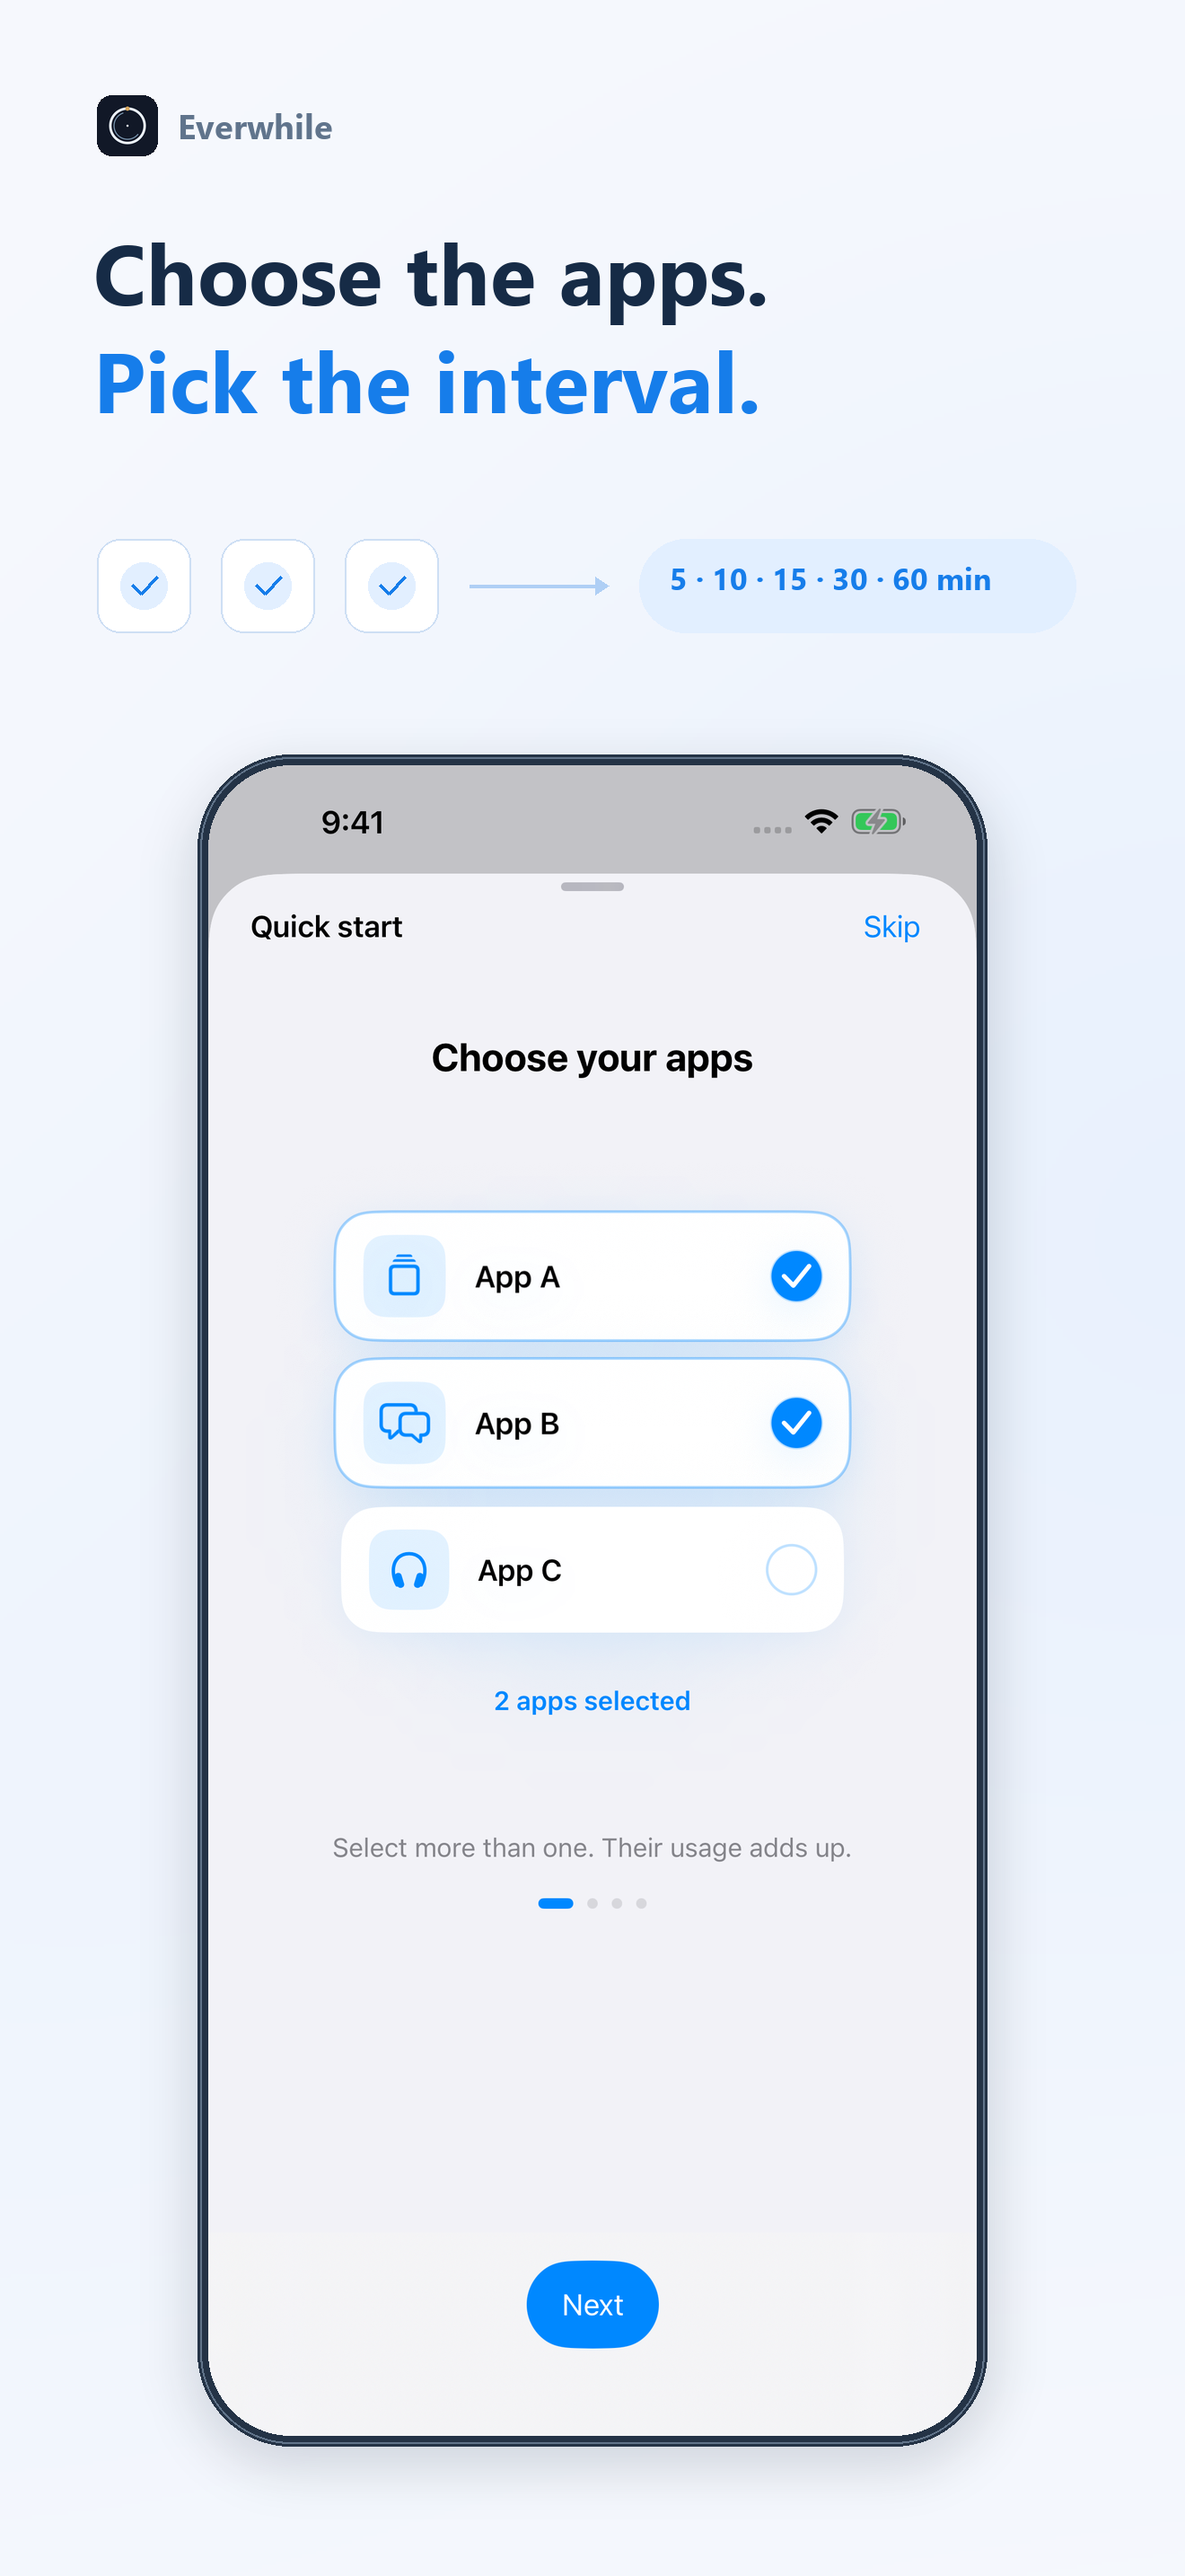
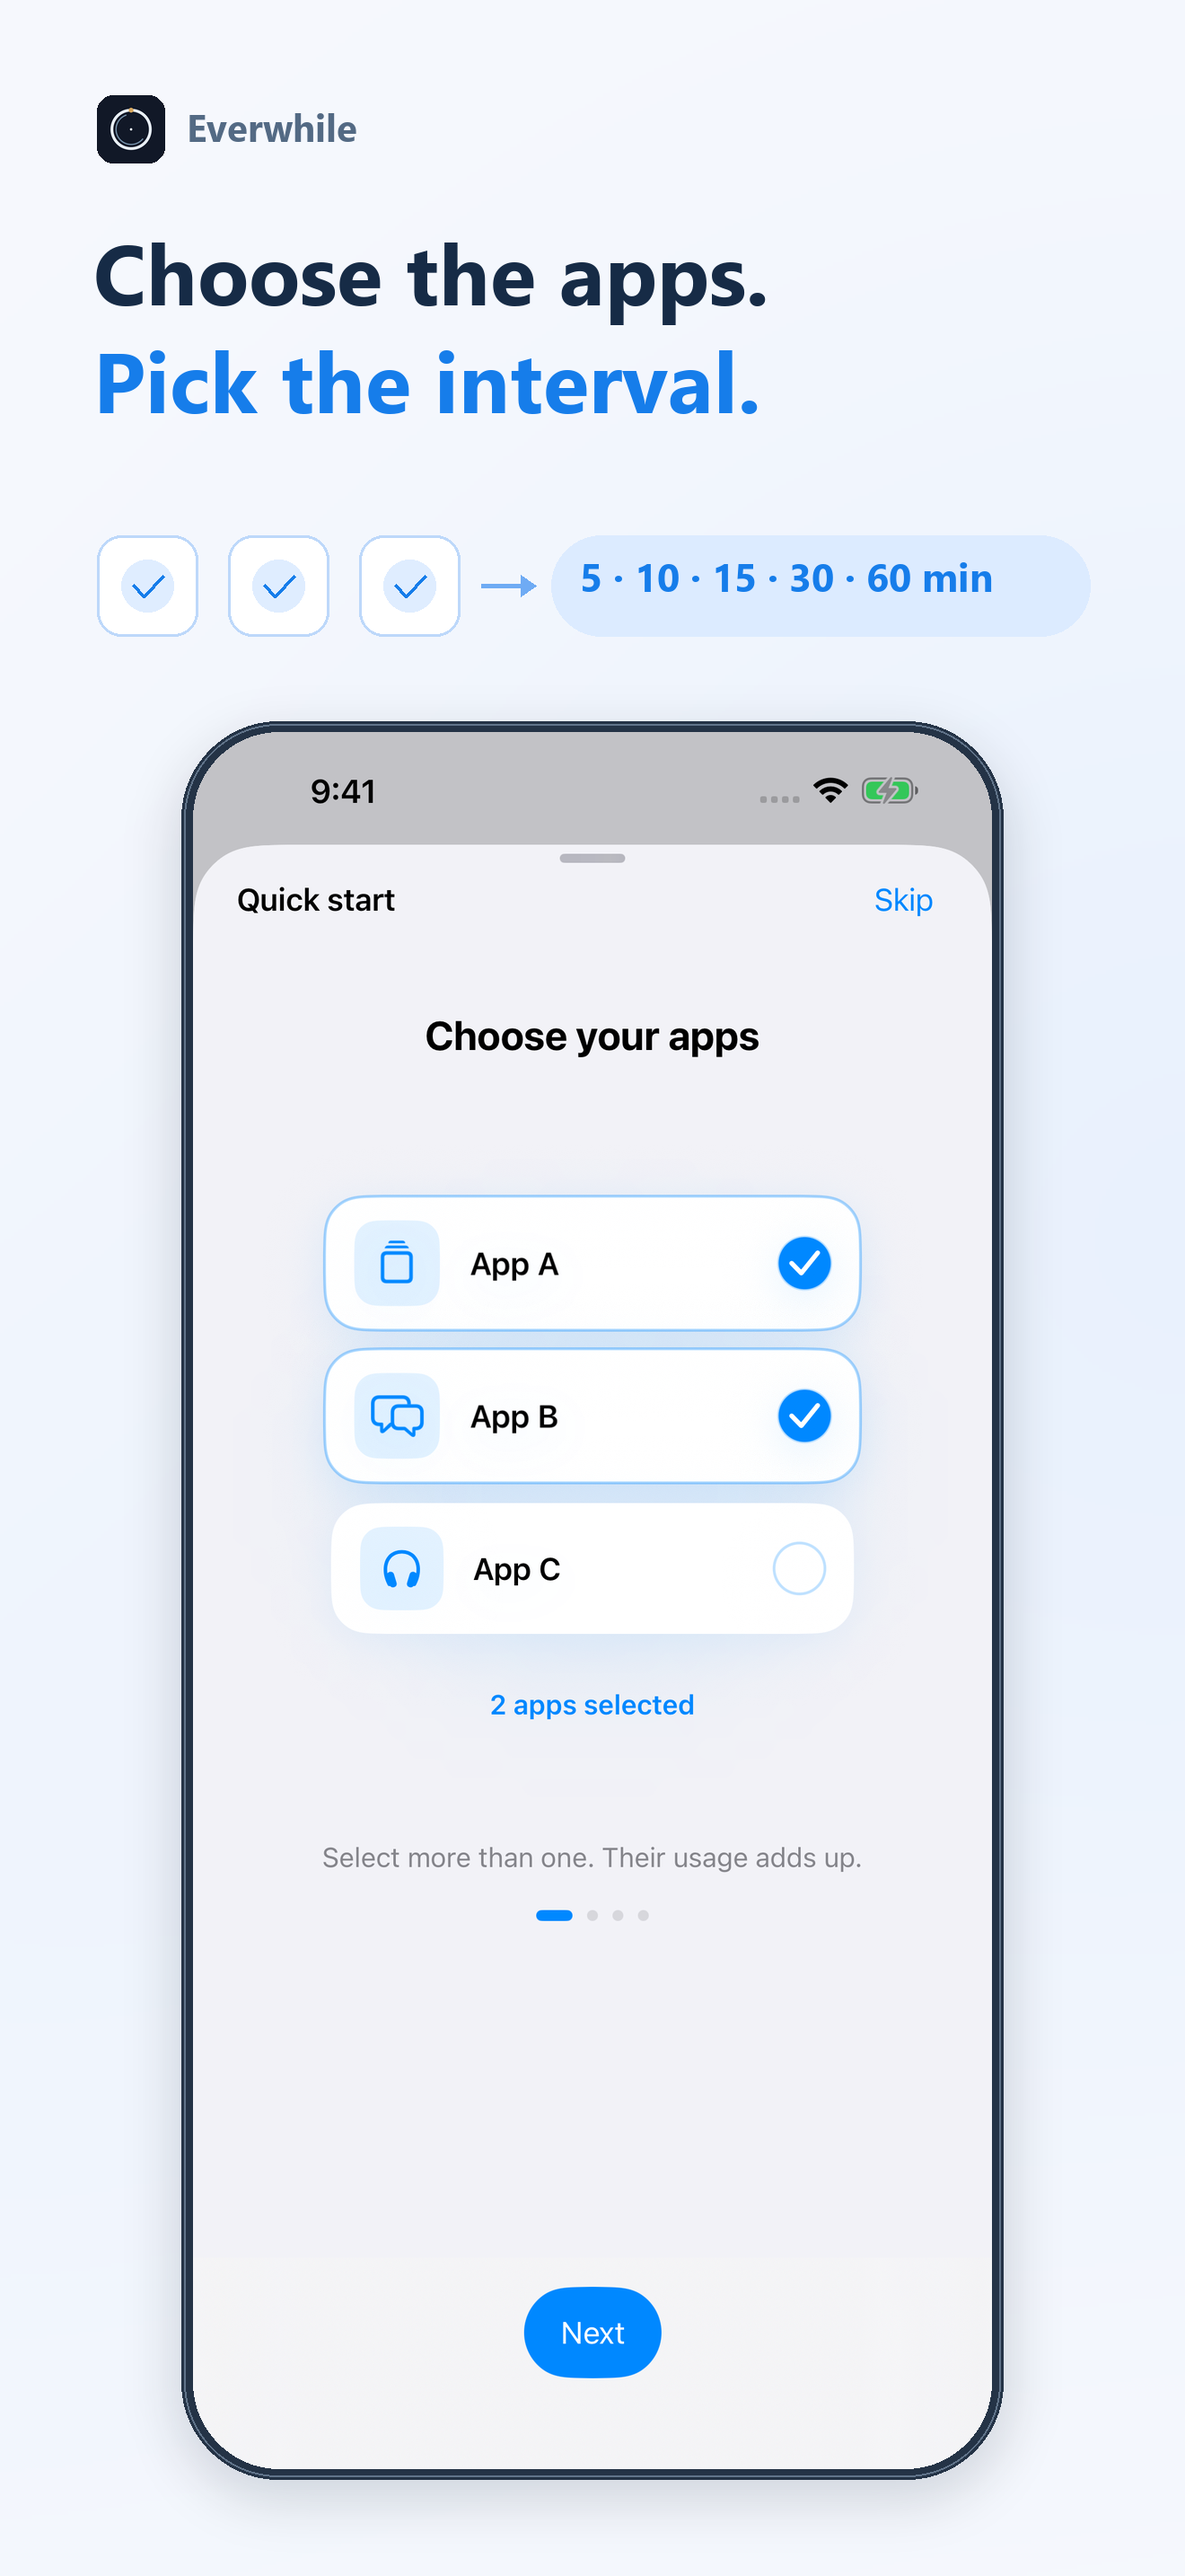
Polish English store screenshots without changing real app captures

diff --git a/store-assets/scripts/render_store.py b/store-assets/scripts/render_store.py
@@ -15,9 +15,13 @@ ROOT = Path(__file__).resolve().parents[1]
 REPO = ROOT.parent
 SIZE = (1320, 2868)
 BLUE, INK, MUTED = "#167DEA", "#162B46", "#60748C"
-PHONE_RECT = (220, 840, 880, 1884)
-SCREEN_RECT = (232, 852, 856, 1860)
-RADIUS = 92
+PHONE_RECT = (202, 803, 916, 1958)
+SCREEN_RECT = (215, 815, 890, 1934)
+RADIUS = 96
+PHONE_RADIUS = 108
+BRAND = {"icon_rect": [108, 106, 76, 76], "origin": [208, 112],
+         "size": 42, "color": "#536A84"}
+INTERVAL_MOTIF_SIZE = 44
 HEADLINE = {"origin": [104, 238], "size": 94, "line_height": 120}
 SUBTITLE = {"origin": [108, 496], "size": 38}
 STORY = [
@@ -69,28 +73,39 @@ def motif(image, index, directory, records):
             d.ellipse((x-radius, 661-radius, x+radius, 661+radius), fill="#B0D3FC")
         d.line((574, 661, 1180, 661), fill="#D8E8FA", width=3)
     elif index == 1:
-        for x in [108, 246, 384]:
-            d.rounded_rectangle((x, 600, x+104, 704), radius=25, fill="white", outline="#CEDFF4", width=2)
-            d.ellipse((x+26, 626, x+78, 678), fill="#E2EFFF")
-            d.line([(x+39, 651), (x+49, 661), (x+67, 642)], fill=BLUE, width=4, joint="curve")
-        d.line([(523, 652), (673, 652)], fill="#AFCFF5", width=4)
-        d.polygon([(663, 642), (678, 652), (663, 662)], fill="#AFCFF5")
-        d.rounded_rectangle((712, 600, 1198, 704), radius=52, fill="#E2EFFF")
-        text(image, (746, 620), "5 · 10 · 15 · 30 · 60 min", directory, records, 34, BLUE, True)
+        for x in [108, 254, 400]:
+            d.rounded_rectangle((x, 596, x+112, 708), radius=27, fill="white", outline="#BDD8FA", width=3)
+            d.ellipse((x+27, 623, x+85, 681), fill="#DFEDFF")
+            d.line([(x+40, 651), (x+52, 664), (x+74, 641)], fill=BLUE, width=5, joint="curve")
+        d.line([(536, 652), (592, 652)], fill="#6FABF4", width=5)
+        d.polygon([(580, 640), (597, 652), (580, 664)], fill="#6FABF4")
+        d.rounded_rectangle((614, 596, 1214, 708), radius=56, fill="#DCEBFF")
+        text(image, (646, 611), "5 · 10 · 15 · 30 · 60 min", directory, records,
+             INTERVAL_MOTIF_SIZE, BLUE, True)
     elif index == 2:
-        # A neutral pulse mark outside the phone, not an iOS banner mockup.
-        for radius in [26, 49, 73]:
-            d.ellipse((177-radius, 662-radius, 177+radius, 662+radius), outline="#AFCFF5", width=3)
-        d.ellipse((165, 650, 189, 674), fill=BLUE)
-        d.line((306, 662, 1188, 662), fill="#C8DFF9", width=3)
-        for x in [470, 770, 1070]:
-            d.ellipse((x-9, 653, x+9, 671), fill=BLUE)
+        # Generic app group -> accumulating segments -> a quiet bell/pulse.
+        # Marketing illustration only: no duration claim or OS banner mockup.
+        d.rounded_rectangle((108, 609, 194, 695), radius=22, fill="#E2EFFF", outline="#BDD8FA", width=3)
+        d.rounded_rectangle((166, 625, 252, 711), radius=22, fill="white", outline="#9AC4F8", width=3)
+        d.rounded_rectangle((187, 646, 231, 690), radius=12, fill="#DCEBFF")
+        d.line((282, 661, 935, 661), fill="#D4E5FA", width=3)
+        for x, color in [(346, "#BAD7FB"), (490, "#8FBEF7"), (634, "#6FABF4")]:
+            d.rounded_rectangle((x, 648, x+120, 674), radius=13, fill=color)
+        d.line((794, 661, 935, 661), fill="#8FBEF7", width=4)
+        d.polygon([(925, 651), (940, 661), (925, 671)], fill="#8FBEF7")
+        for radius in [55, 73]:
+            d.ellipse((1056-radius, 658-radius, 1056+radius, 658+radius), outline="#C5DDFA", width=3)
+        d.arc((1030, 628, 1082, 680), 180, 360, fill=BLUE, width=4)
+        d.line([(1030, 654), (1030, 675), (1023, 688), (1089, 688), (1082, 675), (1082, 654)],
+               fill=BLUE, width=4, joint="curve")
+        d.arc((1049, 685, 1063, 699), 0, 180, fill=BLUE, width=4)
+        d.ellipse((1053, 617, 1059, 623), fill=BLUE)
     else:
-        # Abstract bars echo an hourly chart; no labels, numbers or sessions.
+        # Very faint echo, subordinate to the genuine tutorial's Today chart.
         for index, height in enumerate([36, 62, 93, 48, 114, 76, 132, 55]):
             x = 110 + index*63
-            d.rounded_rectangle((x, 724-height, x+32, 724), radius=8, fill="#6FABF4")
-        d.line((109, 736, 620, 736), fill="#C8DFF9", width=2)
+            d.rounded_rectangle((x, 724-round(height*.5), x+24, 724), radius=6, fill="#CADFF9")
+        d.line((109, 736, 620, 736), fill="#DDEAFB", width=2)
         for x in [746, 850, 954]:
             d.rounded_rectangle((x, 639, x+70, 709), radius=20, fill="white", outline="#CEDFF4", width=2)
             d.ellipse((x+22, 661, x+48, 687), fill="#BCD9FC")
@@ -103,11 +118,11 @@ def phone(image, raw_path):
     assert raw.size == SIZE, raw.size
     assert sh == round(sw*raw.height/raw.width), "Non-uniform capture scaling"
     shadow = Image.new("RGBA", SIZE)
-    ImageDraw.Draw(shadow).rounded_rectangle((x-4, y+20, x+width+4, y+height+20), radius=110, fill=(24, 47, 77, 42))
+    ImageDraw.Draw(shadow).rounded_rectangle((x-4, y+20, x+width+4, y+height+20), radius=PHONE_RADIUS+6, fill=(24, 47, 77, 42))
     image.alpha_composite(shadow.filter(ImageFilter.GaussianBlur(28)))
     draw = ImageDraw.Draw(image)
-    draw.rounded_rectangle((x, y, x+width-1, y+height-1), radius=104, fill="#243346")
-    draw.rounded_rectangle((x+3, y+3, x+width-4, y+height-4), radius=101, outline="#61748A", width=2)
+    draw.rounded_rectangle((x, y, x+width-1, y+height-1), radius=PHONE_RADIUS, fill="#243346")
+    draw.rounded_rectangle((x+3, y+3, x+width-4, y+height-4), radius=PHONE_RADIUS-3, outline="#61748A", width=2)
     screen = raw.convert("RGB").resize((sw, sh), Image.Resampling.LANCZOS).convert("RGBA")
     mask = Image.new("L", (sw, sh))
     ImageDraw.Draw(mask).rounded_rectangle((0, 0, sw-1, sh-1), radius=RADIUS, fill=255)
@@ -125,12 +140,13 @@ def render(font_dir, icc_path):
         image = background()
         bounds = []
         icon_path = REPO / "App/Assets.xcassets/AppIcon.appiconset/AppIcon.png"
-        icon = Image.open(icon_path).convert("RGBA").resize((68, 68), Image.Resampling.LANCZOS)
-        mask = Image.new("L", (68, 68))
-        ImageDraw.Draw(mask).rounded_rectangle((0, 0, 67, 67), radius=16, fill=255)
+        ix, iy, iw, ih = BRAND["icon_rect"]
+        icon = Image.open(icon_path).convert("RGBA").resize((iw, ih), Image.Resampling.LANCZOS)
+        mask = Image.new("L", (iw, ih))
+        ImageDraw.Draw(mask).rounded_rectangle((0, 0, iw-1, ih-1), radius=18, fill=255)
         icon.putalpha(mask)
-        image.alpha_composite(icon, (108, 106))
-        text(image, (198, 114), "Everwhile", font_dir, bounds, 38, MUTED, True)
+        image.alpha_composite(icon, (ix, iy))
+        text(image, tuple(BRAND["origin"]), "Everwhile", font_dir, bounds, BRAND["size"], BRAND["color"], True)
         for line_index, line in enumerate(lines):
             text(image, (HEADLINE["origin"][0], HEADLINE["origin"][1]+line_index*HEADLINE["line_height"]),
                  line, font_dir, bounds, HEADLINE["size"], BLUE if line_index else INK, True)
@@ -150,11 +166,12 @@ def render(font_dir, icc_path):
                         "pixels": list(SIZE), "mode": "RGB", "icc_sha256": sha(icc_path),
                         "phone_rect": list(PHONE_RECT), "screen_rect": list(SCREEN_RECT),
                         "screen_corner_radius": RADIUS, "phone_bottom_cropped": False,
+                        "brand_style": BRAND,
                         "headline_lines": lines, "headline_style": HEADLINE, "subtitle": subtitle,
                         "subtitle_style": SUBTITLE, "external_text_bounds": bounds,
                         "in_phone_overlay": None, "outside_phone_illustration": True,
                         "transformation": "Uniform LANCZOS resize and rounded-corner mask only"})
-    manifest = {"status": "DRAFT_WAITING_FOR_OWNER_VISUAL_REVIEW", "locale": "en",
+    manifest = {"status": "DRAFT_WAITING_FOR_OWNER_VISUAL_REVIEW", "locale": "en", "polish_revision": 2,
                 "reference_sha": "4995c1d0d70ebdf3712416bf96ee31219fc67720",
                 "renderer_pillow_version": __import__("PIL").__version__,
                 "fonts": [{"file": name, "sha256": sha(font_dir / name)} for name in ["segoeui.ttf", "segoeuib.ttf"]],

diff --git a/scripts/tests/test_s03_preflight.py b/scripts/tests/test_s03_preflight.py
@@ -1,5 +1,6 @@
 """Synthetic unit fixtures below are NOT screenshot-production inputs."""
 import contextlib
+import ast
 import importlib.util
 import io
 import json
@@ -110,6 +111,41 @@ class S03PreflightTests(unittest.TestCase):
         self.assertIn('XCTAssertTrue(app.buttons["tutorial-skip"].waitForNonExistence(timeout: 5))', helper)
         self.assertIn('XCTAssertFalse(app.buttons["tutorial-skip"].exists)', helper)
         self.assertNotIn('sleep(', helper)
+
+    def test_english_polish_preserves_copy_and_uniform_geometry(self):
+        manifest = json.loads((ROOT / "store-assets/RENDER_MANIFEST_EN.json").read_text())
+        self.assertEqual(manifest["polish_revision"], 2)
+        frames = manifest["frames"]
+        self.assertEqual([f["headline_lines"] for f in frames], [
+            ["Feel time passing.", "Nothing else."],
+            ["Choose the apps.", "Pick the interval."],
+            ["A reminder.", "Not a restriction."],
+            ["See where the", "time went."]])
+        self.assertEqual([f["subtitle"] for f in frames], ["", "", "", "Total · by hour · by app"])
+        for frame in frames:
+            for key in ("phone_rect", "screen_rect", "brand_style", "headline_style", "subtitle_style"):
+                self.assertEqual(frame[key], frames[0][key])
+            self.assertIsNone(frame["in_phone_overlay"])
+            self.assertGreaterEqual(frame["screen_rect"][2] / 856, 1.03)
+            self.assertLessEqual(frame["screen_rect"][2] / 856, 1.05)
+            self.assertEqual(frame["screen_rect"][3], round(frame["screen_rect"][2] * 2868 / 1320))
+        interval = next(t for t in frames[1]["external_text_bounds"] if t["text"] == "5 · 10 · 15 · 30 · 60 min")
+        self.assertEqual(interval["size"], 44)
+        self.assertTrue(interval["bold"])
+        self.assertGreaterEqual(interval["size"] * 360 / 1320, 12)
+
+    def test_renderer_constants_match_committed_manifest(self):
+        # Parse constants without importing Pillow/numpy on secret-free CI.
+        tree = ast.parse((ROOT / "store-assets/scripts/render_store.py").read_text(encoding="utf-8"))
+        constants = {node.targets[0].id: ast.literal_eval(node.value)
+                     for node in tree.body if isinstance(node, ast.Assign)
+                     and len(node.targets) == 1 and isinstance(node.targets[0], ast.Name)
+                     and node.targets[0].id in {"PHONE_RECT", "SCREEN_RECT", "BRAND", "HEADLINE", "SUBTITLE"}}
+        frame = json.loads((ROOT / "store-assets/RENDER_MANIFEST_EN.json").read_text())["frames"][0]
+        for source, recorded in (("PHONE_RECT", "phone_rect"), ("SCREEN_RECT", "screen_rect")):
+            self.assertEqual(list(constants[source]), frame[recorded])
+        for source, recorded in (("BRAND", "brand_style"), ("HEADLINE", "headline_style"), ("SUBTITLE", "subtitle_style")):
+            self.assertEqual(constants[source], frame[recorded])
 
 
 if __name__ == "__main__":

diff --git a/store-assets/scripts/validate_store.py b/store-assets/scripts/validate_store.py
@@ -38,7 +38,7 @@ def validate(root=ROOT):
     assert summary["passedTests"] == 1 and summary["failedTests"] == summary["skippedTests"] == 0
     checks = []
     for record, raw_entry in zip(frames, inventory):
-        for key in ["phone_rect", "screen_rect", "screen_corner_radius", "headline_style", "subtitle_style"]:
+        for key in ["phone_rect", "screen_rect", "screen_corner_radius", "headline_style", "subtitle_style", "brand_style"]:
             assert record[key] == frames[0][key], f"Inconsistent {key}"
         path = root / record["file"]
         image = Image.open(path)

diff --git a/store-assets/SCREENSHOT_STORYBOARD.md b/store-assets/SCREENSHOT_STORYBOARD.md
@@ -1,4 +1,4 @@
-# English Pass 1 — owner visual review pending
+# English detail polish 2 — owner visual review pending
 
 Frozen product: Everwhile 0.1.0 (91.1). Reference production method:
 Lecture Asset@4995c1d0d70ebdf3712416bf96ee31219fc67720 (both workflows,
@@ -27,3 +27,19 @@ All opaque real phone pixels must match the uniformly resized raw image exactly.
 
 Do not create/freeze zh-Hans assets until owner approves the English contact sheet.
 No App Review submission, public release, or S03-B unlock is authorized.
+
+## Detail polish 2 (2026-10-07)
+
+Same four headlines, subline, order, background and design language. Uniform screen
+width 856 → 890 pixels (+3.97%); all phones share the same geometry. Official icon
+68 → 76 pixels; brand type 38 → 42. Frame 2 interval numbers are 44px bold
+(12px at 360px-wide thumbnail), with stronger generic selected-app → interval art.
+Frame 3 external app tiles → accumulating segments → bell clarify the reminder;
+the captured Quick Start chrome/pixels remain untouched. Frame 4 external bars
+are half-height and paler, subordinate to the genuine tutorial Today chart.
+
+Frame 1 source inspection: production Home requires actual Family Controls
+authorization and opaque picker selection for its configured states. No fuller
+genuine state is available in the existing clean Release captures; keep the real
+unconfigured Home. No new authorization attempt, injected state, production edit,
+private device capture or screenshot-only data mode was used.

diff --git a/store-assets/AGENTS.md b/store-assets/AGENTS.md
@@ -14,3 +14,8 @@ Lecture Asset reference 4995c1d0d70ebdf3712416bf96ee31219fc67720.
 - Temporary downloads belong under ignored `.build/`, not this durable folder.
 
 Resume through reports/S03-A/round-01. Never submit App Review or unlock S03-B.
+
+English polish revision 2 keeps headlines/background/source capture/order unchanged.
+Phone scale is about +4% uniformly in all frames; brand slightly strengthened.
+Frame 2 interval motif type enlarged; Frame 3 external accumulated segments lead
+to a quiet bell; Frame 4 external bars are faint. Owner review is still pending.
